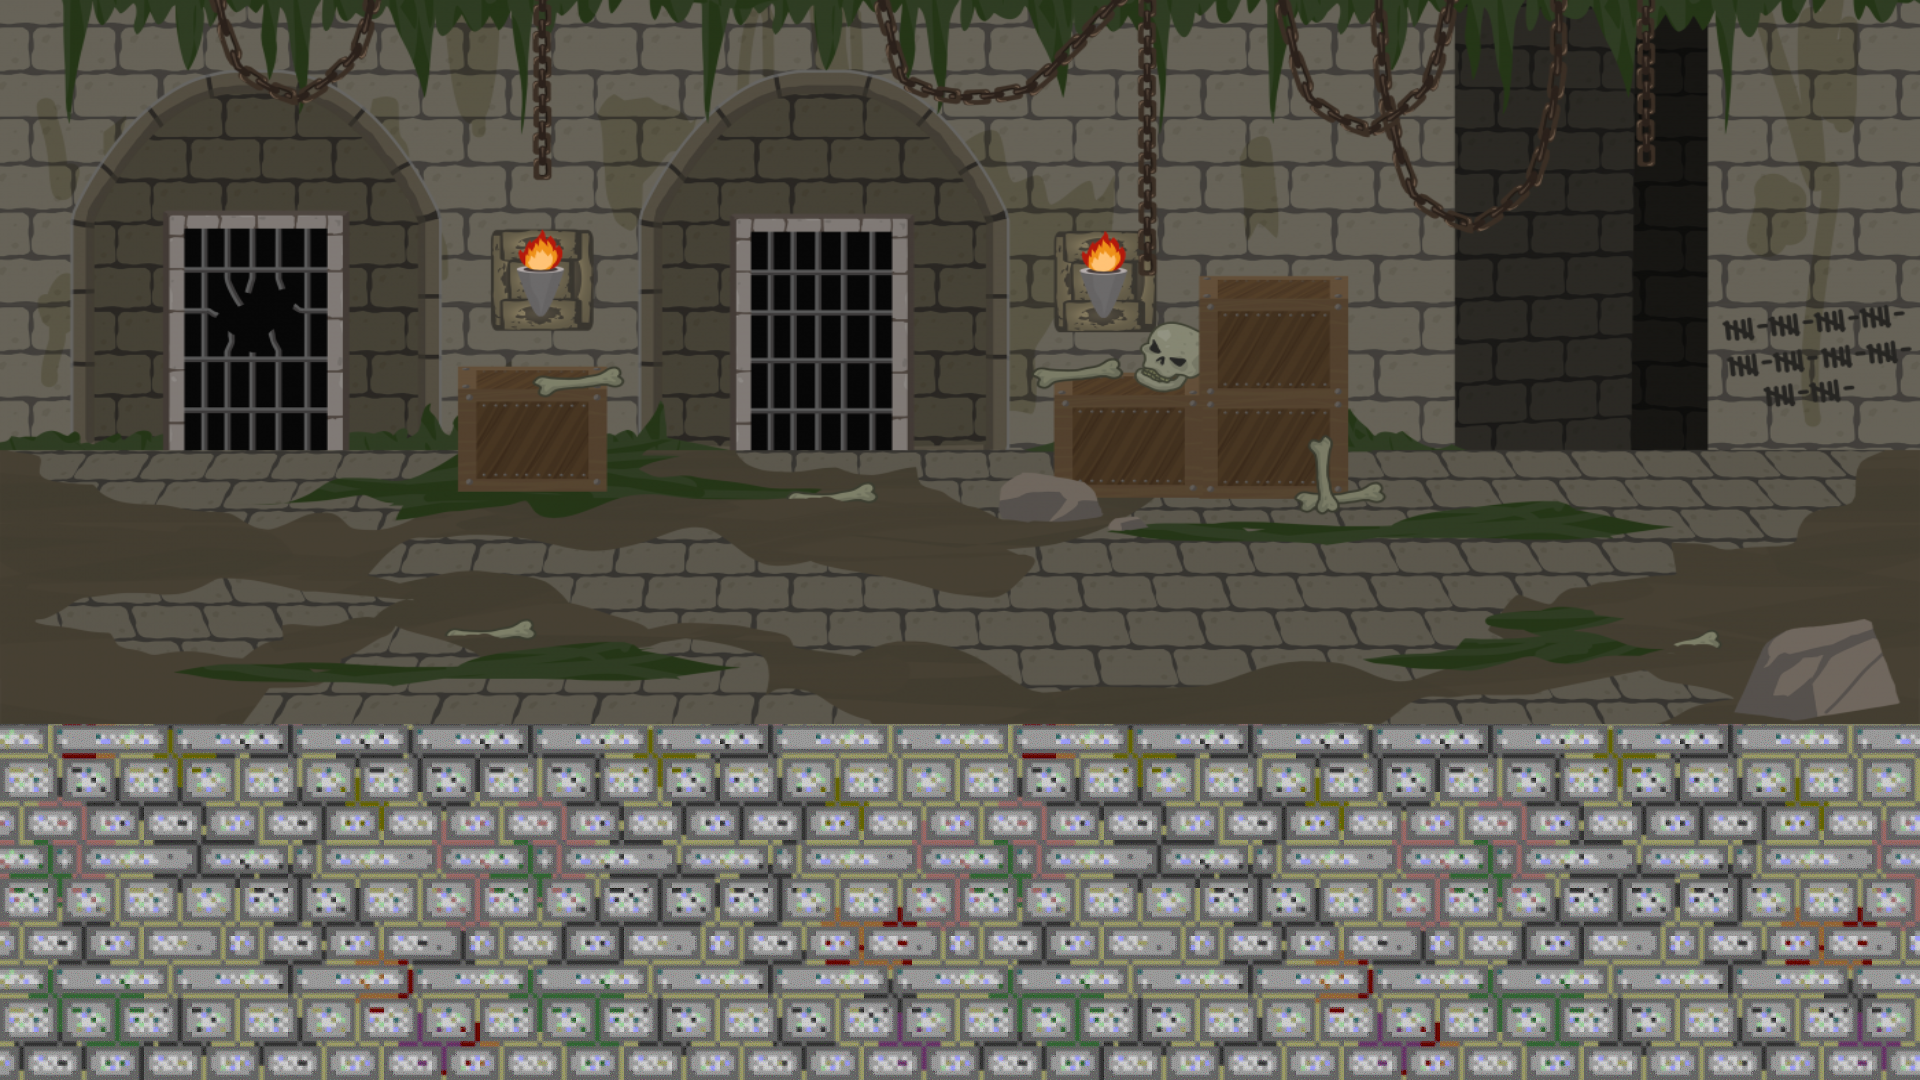
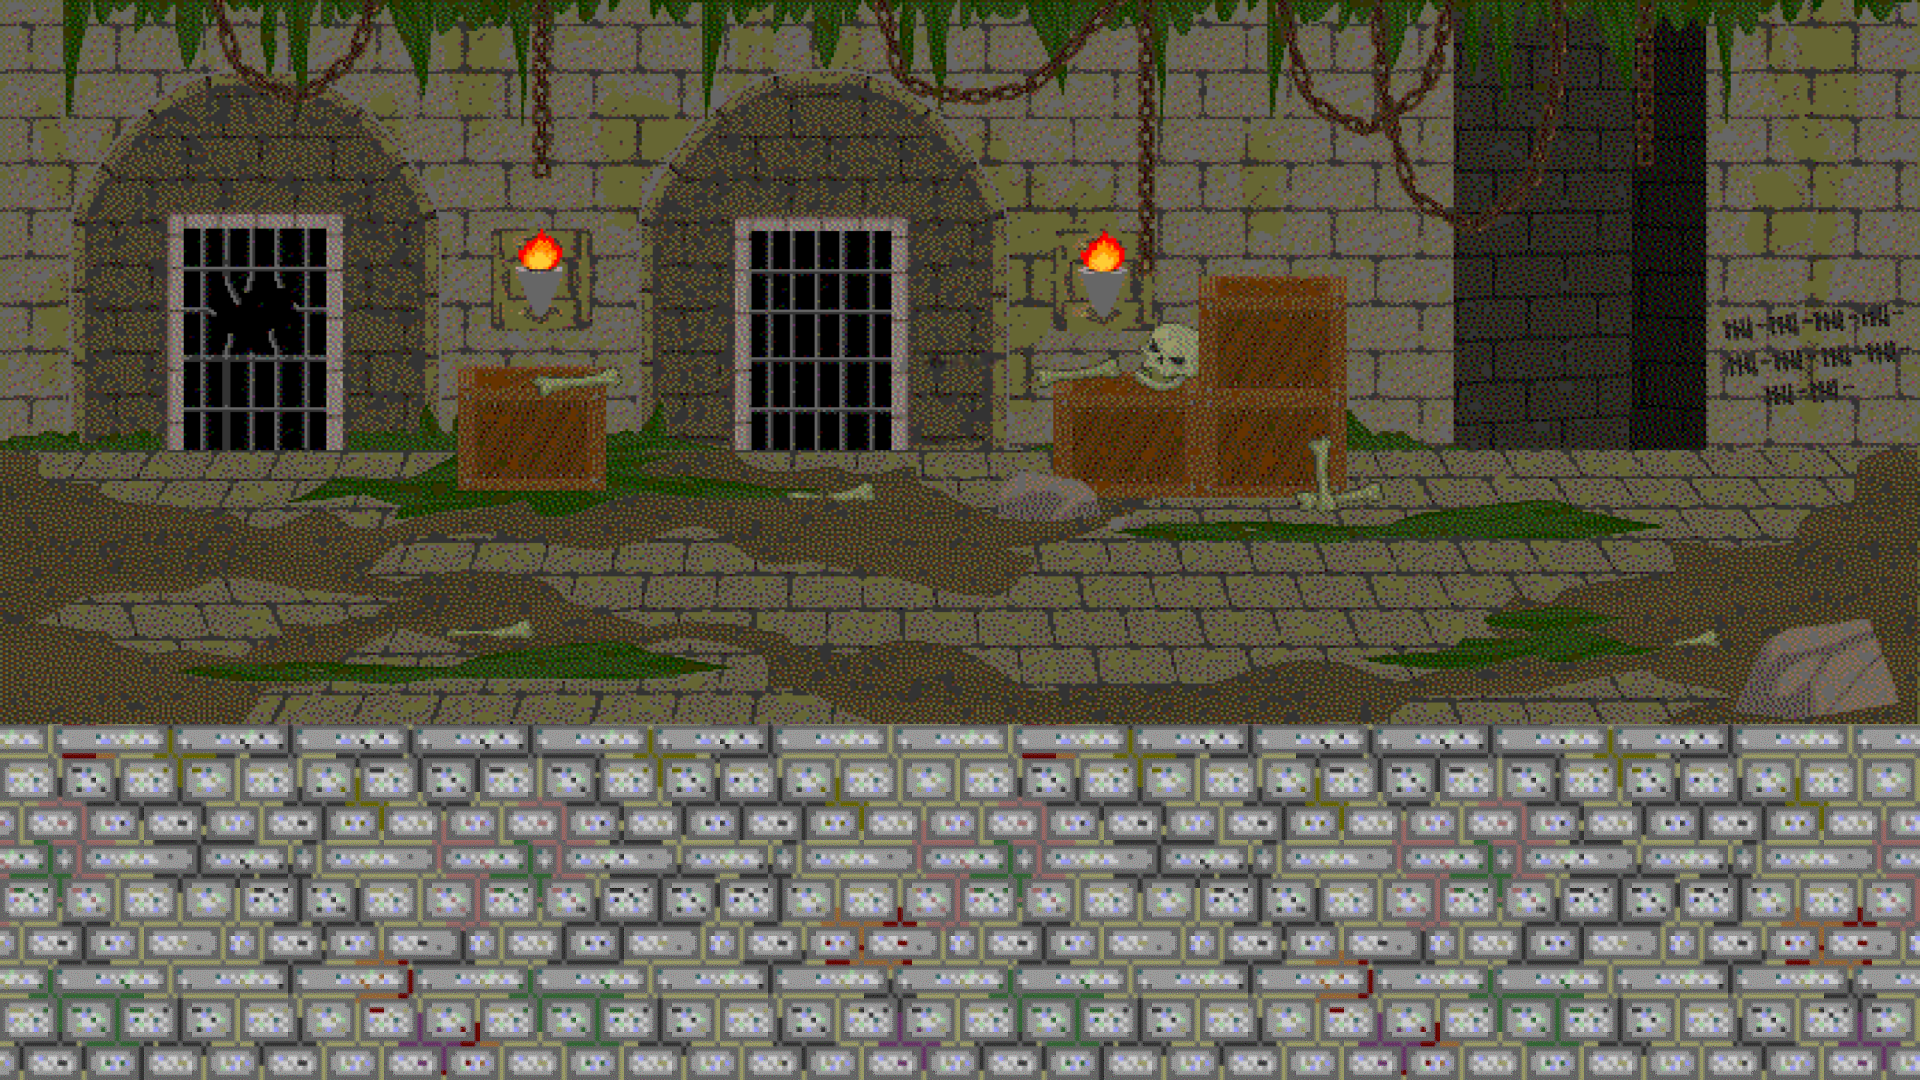
-Added background change to single and multiplayer. Ref #159

Changed region(s): [[0.0, 0.0, 1.0, 0.6722]]

diff --git a/core/src/ee/taltech/deepdarkdungeon/Screens/MultiplayerScreen.java b/core/src/ee/taltech/deepdarkdungeon/Screens/MultiplayerScreen.java
@@ -28,11 +28,8 @@ public class MultiplayerScreen implements Screen {
     private static final int VBOI_WIDTH = 50;
     private SpriteBatch batch;
     BitmapFont font = new BitmapFont();
-    private Texture background;
-    private Texture background2;
     private boolean write = true;
     private List<GameObject> myCharacters;
-    private List<String> heroNames;
     private MPClient client;
     private int WHOWILLATTACK = 0;
     private static final int LOST_SCREEN_X = 650;
@@ -129,7 +126,7 @@ public class MultiplayerScreen implements Screen {
         this.music = music;
         this.openLevelNumber = openLevelNumber;
         this.myCharacters = myChars;
-        heroNames = new LinkedList<>();
+        List<String> heroNames = new LinkedList<>();
         for (GameObject hero : myChars) {
             heroNames.add(hero.name);
         }
@@ -173,11 +170,14 @@ public class MultiplayerScreen implements Screen {
         heroHealSheet = new Texture(Gdx.files.internal("heroHealAnimation.png"));
         agrSheet = new Texture(Gdx.files.internal("agrAnimation.png"));
 
-        background = new Texture(Gdx.files.internal("dungeonBackground.png"));
-        background2 = new Texture(Gdx.files.internal("background2.png"));
+        Texture background = new Texture(Gdx.files.internal("dungeonBackground.png"));
+        Texture background2 = new Texture(Gdx.files.internal("background2.png"));
 
         heroIcon = new Texture(Gdx.files.internal("heroIcon.png"));
         backgroundIcons = new Texture(Gdx.files.internal("backgroundIcons.png"));
+        Texture background5 = new Texture(Gdx.files.internal("background5.png"));
+        Texture background3 = new Texture(Gdx.files.internal("background3.png"));
+        Texture background4 = new Texture(Gdx.files.internal("background4.png"));
 
         heroAttackAnimation = new AnimationClass(heroAttackSheet, HERO_FRAME_ROWS, HERO_FRAME_COLS);
 
@@ -189,14 +189,26 @@ public class MultiplayerScreen implements Screen {
 
         agrAnimation = new AnimationClass(agrSheet, FRAME_ROWS_AGR, FRAME_COLS_AGR);
 
-        //TODO: добавляй новые бакграунды в лист здесь:
         backgroundList.add(background);
         backgroundList.add(background2);
+        backgroundList.add(background5);
+        backgroundList.add(background3);
+        backgroundList.add(background4);
     }
 
     @Override
     public void render(float delta) {
         if (client.game) {
+            if (!client.client.isConnected()) {
+                batch.draw(monstersWinScreen, LOST_SCREEN_X, LOST_SCREEN_Y, LOST_SCREEN_WIDTH, LOST_SCREEN_HEIGHT);
+                if (Gdx.input.getX() > MAIN_MENU2_X_START && Gdx.input.getX() < MAIN_MENU2_X_END && Gdx.input.getY() > MAIN_MENU2_Y_START && Gdx.input.getY() < MAIN_MENU2_Y_END) {
+                    batch.draw(mainMenuButton2, 835, 385, 228, 95);
+                    if (Gdx.input.isButtonJustPressed(Input.Buttons.LEFT)) {
+                        client.client.close();
+                        game.setScreen(new MainMenuScreen(game, openLevelNumber, music, false));
+                    }
+                }
+            }
             if (write) {
                 List<String> enemyCharactersString = client.enemy;
                 write = false;
@@ -226,7 +238,6 @@ public class MultiplayerScreen implements Screen {
                 if (goodCharacter1.getHealth() == 0 && goodCharacter2.getHealth() == 0 && goodCharacter3.getHealth() == 0 && goodCharacter4.getHealth() == 0) {
                     break;
                 }
-                System.out.println("NIkita pidr");
                 WHOWILLATTACK++;
                 if (WHOWILLATTACK >= 4) {
                     WHOWILLATTACK = 0;
@@ -269,7 +280,6 @@ public class MultiplayerScreen implements Screen {
                 font.draw(batch, "Hp: " + monster.getHealth(), monster.getX() + 50, monster.getY() - 10);
             }
             if (client.gameOver) {
-                System.out.println("ja ebal");
                 batch.draw(monstersWinScreen, LOST_SCREEN_X, LOST_SCREEN_Y, LOST_SCREEN_WIDTH, LOST_SCREEN_HEIGHT);
                 if (Gdx.input.getX() > MAIN_MENU2_X_START && Gdx.input.getX() < MAIN_MENU2_X_END && Gdx.input.getY() > MAIN_MENU2_Y_START && Gdx.input.getY() < MAIN_MENU2_Y_END) {
                     batch.draw(mainMenuButton2, 835, 385, 228, 95);
@@ -361,7 +371,6 @@ public class MultiplayerScreen implements Screen {
             } else {
                 font.draw(batch, "Enemy turn! ", 100, 1000);
             }
-            System.out.println("hui");
             if ((client.myTurn) && !gameOver && !animationStarted) {
                 if (addManaMonsters) {
                     for (GameObject monster : myCharacters) {
@@ -392,7 +401,6 @@ public class MultiplayerScreen implements Screen {
                 }
                 if (calculateDamage && !enemyUsedSkill && !(myAttackedHero == null) && !(badCharacter == null)) {
                     attacker = badCharacter;
-                    System.out.println("pizda");
                     attackUs(myAttackedHero);
 
                 }
@@ -435,7 +443,6 @@ public class MultiplayerScreen implements Screen {
                         }
                     }
                 }
-                //  || ||  attacker.getSkill().equals("berserk call") && attacker.getMana() >= 40
                 if (Gdx.input.getX() < VBOI_X + VBOI_WIDTH && Gdx.input.getX() > VBOI_X && DeepDarkDungeonGame.HEIGHT - Gdx.input.getY() <= VBOI_Y - 70 + VBOI_HEIGTH + 30 && DeepDarkDungeonGame.HEIGHT - Gdx.input.getY() >= VBOI_Y - 70 + 25) {
                     if (attacker.getSkill().equals("powershot") && attacker.getMana() >= 100) {
                         batch.draw(powershotButtonActive, VBOI_X, VBOI_Y - 70, VBOI_WIDTH, VBOI_HEIGTH);
@@ -567,7 +574,6 @@ public class MultiplayerScreen implements Screen {
     }
 
     private void attackUs(GameObject gameObject) {
-        System.out.println(gameObject.getName());
         messageForMonsters = "Your " + gameObject.getName() + " was attacked!";
         attackedMonster = gameObject;
         monsterDamage = "-" + attacker.getPower() + " HP";
@@ -575,7 +581,6 @@ public class MultiplayerScreen implements Screen {
         calculateDamage = false;
         animationStarted = true;
         currentAnimation = heroAttackAnimation;
-        System.out.println("Ilya");
     }
 
     private void sunstrike(GameObject gameObject1, GameObject gameObject2, GameObject gameObject3) {

diff --git a/core/src/ee/taltech/deepdarkdungeon/Screens/GameScreen.java b/core/src/ee/taltech/deepdarkdungeon/Screens/GameScreen.java
@@ -85,6 +85,9 @@ public class GameScreen implements Screen {
 
     private Texture background;
     private Texture background2;
+    private Texture background5;
+    private Texture background3;
+    private Texture background4;
 
     private Texture heroIcon;
     private Texture defenceButton;
@@ -143,7 +146,7 @@ public class GameScreen implements Screen {
 
     public GameScreen(List<GameObject> goodCharacters, List<GameObject> badCharacters, DeepDarkDungeonGame game, PutMusic music, int openLevelNumber, int lvlPlaying) {
         this.lvlPlaying = lvlPlaying;
-        this.openLevelNumber = openLevelNumber;
+        this.openLevelNumber = 4;
         this.music = music;
         this.game = game;
         heroes = goodCharacters;
@@ -171,6 +174,9 @@ public class GameScreen implements Screen {
 
         background = new Texture(Gdx.files.internal("dungeonBackground.png"));
         background2 = new Texture(Gdx.files.internal("background2.png"));
+        background5 = new Texture(Gdx.files.internal("background5.png"));
+        background3 = new Texture(Gdx.files.internal("background3.png"));
+        background4 = new Texture(Gdx.files.internal("background4.png"));
 
         heroIcon = new Texture(Gdx.files.internal("heroIcon.png"));
         backgroundIcons = new Texture(Gdx.files.internal("backgroundIcons.png"));
@@ -227,11 +233,16 @@ public class GameScreen implements Screen {
         Gdx.gl.glClear(GL20.GL_COLOR_BUFFER_BIT);
         batch.begin();
 
-        //TODO: вставляй бэкграунды сюда:
         if (openLevelNumber == 1) {
-            batch.draw(background, 0, 0);
+            batch.draw(background5, 0, 0);
         } else if (openLevelNumber == 2) {
+            batch.draw(background, 0, 0);
+        } else if (openLevelNumber == 3) {
             batch.draw(background2, 0, 0);
+        } else if (openLevelNumber == 4) {
+            batch.draw(background4, 0, 0);
+        } else {
+            batch.draw(background3, 0, 0);
         }
 
         batch.draw(heroIcon, 30, 120);
